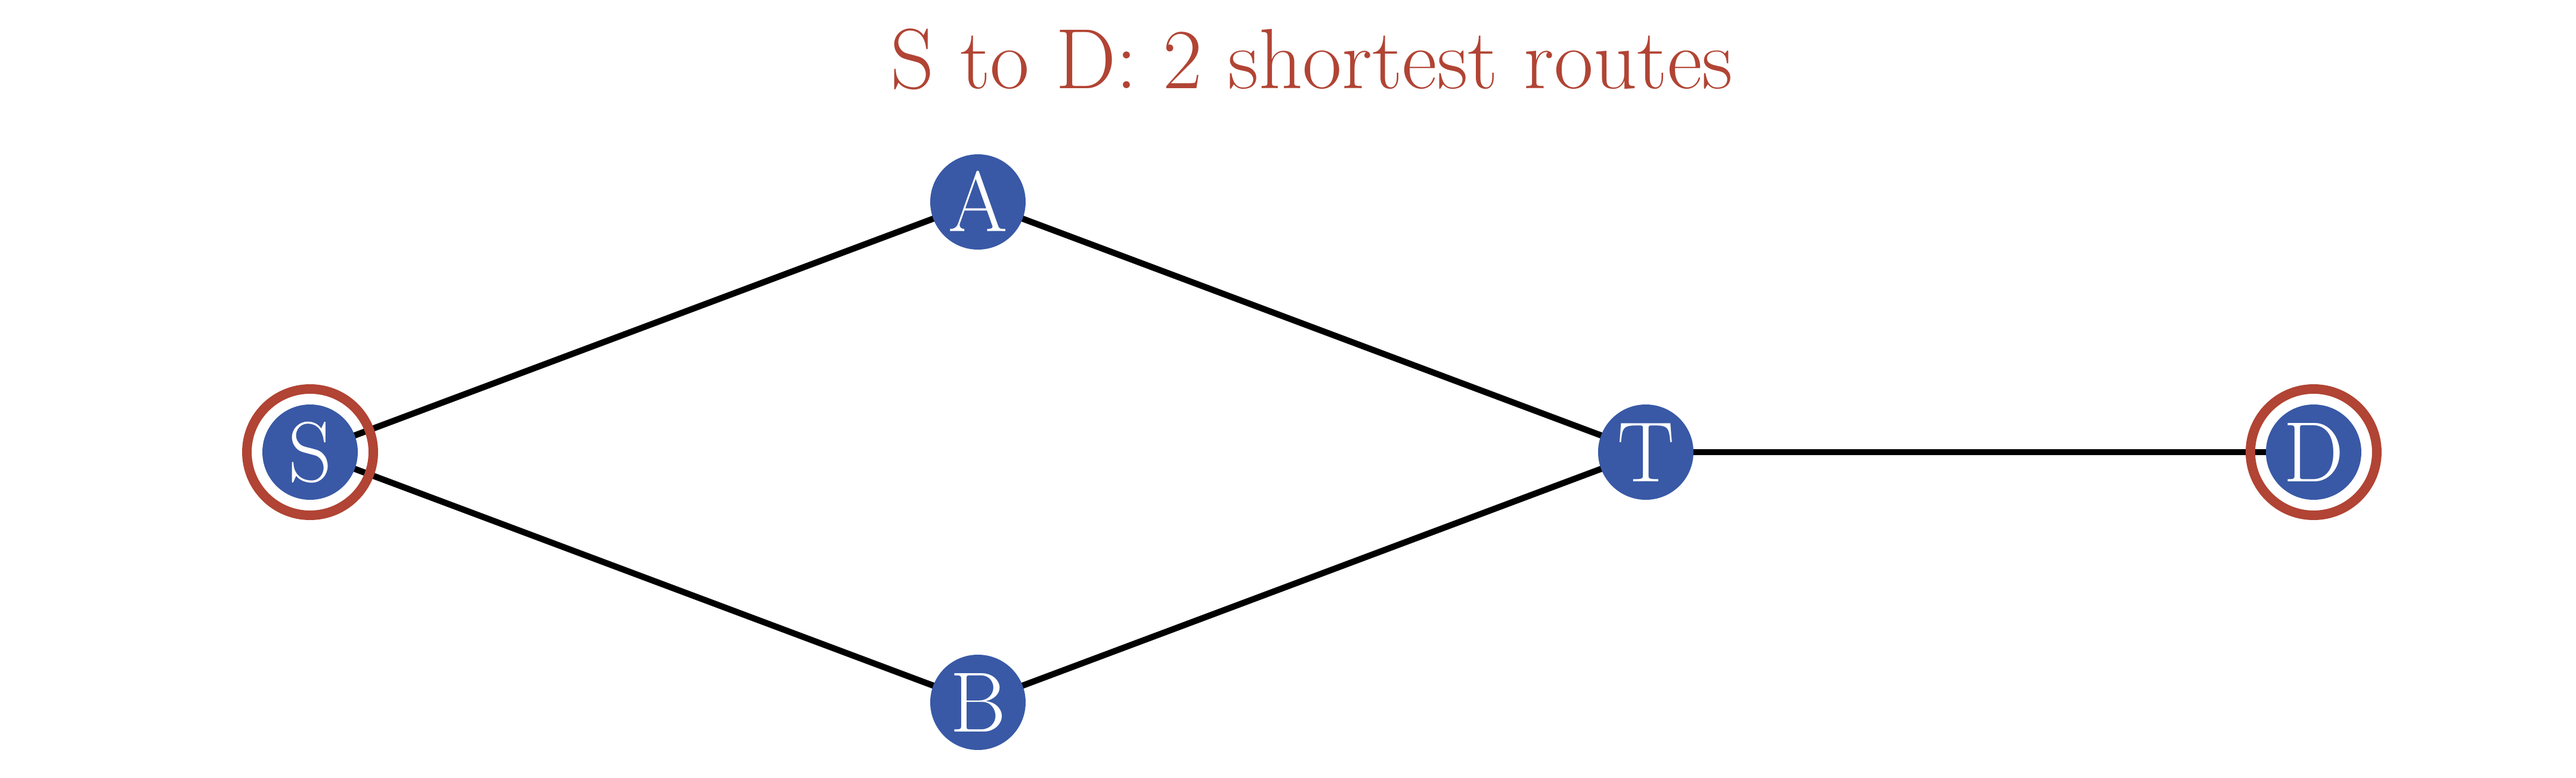
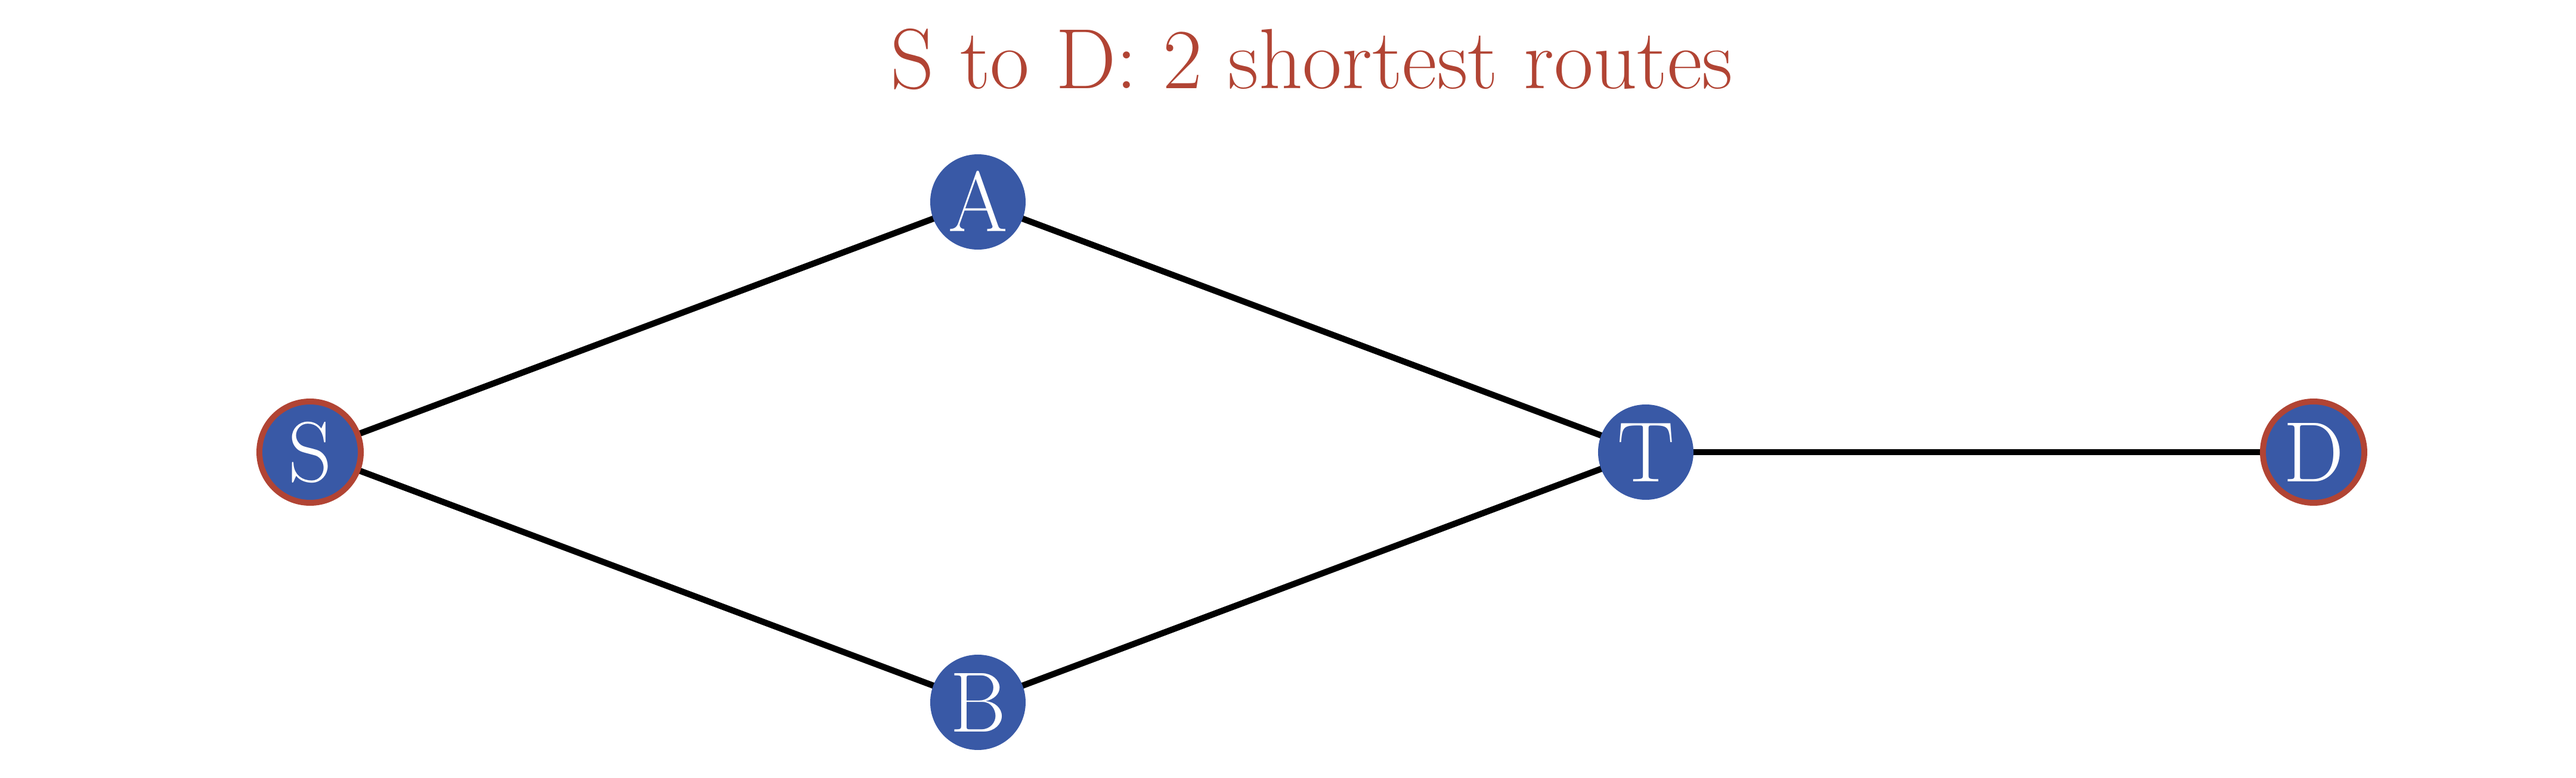
m06: the attack captions named two of three node states

Changed region(s): [[0.875, 0.49, 0.9375, 0.6738], [0.0938, 0.49, 0.1562, 0.6738]]

diff --git a/docs/slide/new/m06/m06-centrality.md b/docs/slide/new/m06/m06-centrality.md
@@ -770,7 +770,7 @@ Take out Rome, then Alexandria — the two cities with the most roads. **Seven**
 <div class="fig tall">
 
 ![w:1080](figures/attack-compare-1.png)
-<figcaption>white with a red rim is removed; blue is still in the surviving network</figcaption>
+<figcaption>red rim: removed · blue: the surviving network · gray: cut off from it</figcaption>
 
 </div>
 
@@ -785,7 +785,7 @@ Rome again — and then **Tarraco, which has two roads**. Only **five** stay joi
 <div class="fig tall">
 
 ![w:1080](figures/attack-compare-2.png)
-<figcaption>the same two strikes, chosen by traffic rather than by count</figcaption>
+<figcaption>same marks, but the second strike chosen by traffic, not by count</figcaption>
 
 </div>
 
